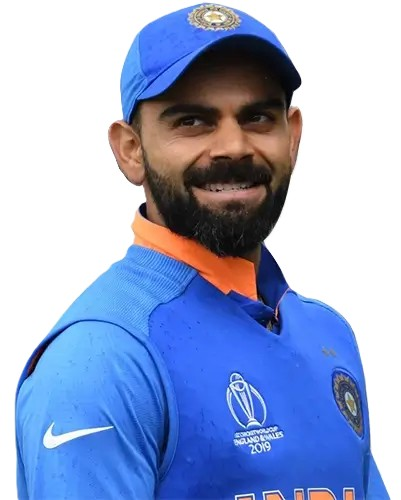
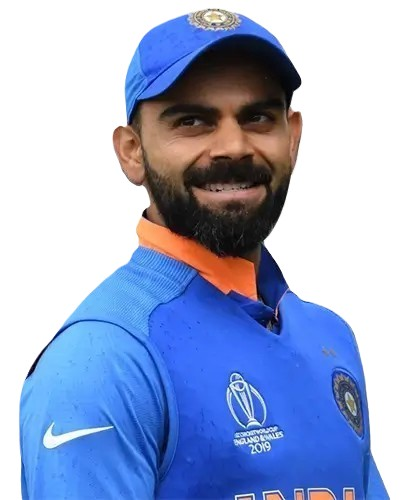
approach to finished

diff --git a/src/components/Player.jsx b/src/components/Player.jsx
@@ -1,12 +1,89 @@
-import React from "react";
+import React, { useState } from "react";
 import "./Player.css";
+import { UserRound } from "lucide-react";
 
-const Player = ({ player }) => {
-  const { name, img } = player;
+const Player = ({
+  player,
+  availableBalance,
+  setAvailableBalance,
+  selectedPlayers,
+  setSelectedPlayers,
+}) => {
+  const [isSelected, setIsSelected] = useState(false);
+  const {
+    name,
+    img,
+    country,
+    flag,
+    role,
+    rating,
+    bowling_style,
+    batting_style,
+    price,
+  } = player;
+
+  const handlePlayerPrice = (price) => {
+    if (availableBalance < price) {
+      alert("Do not have enough balance");
+      return;
+    }
+    setIsSelected(true);
+    setAvailableBalance(availableBalance - price);
+    setSelectedPlayers([...selectedPlayers, player]);
+  };
+
+  // we can also create a separate function
+  // ==========================================
+  // const handlePurchasedPlayers = (player) => {
+  //   const newHiredPlayers = [...selectedPlayers, player];
+  //   setSelectedPlayers(newHiredPlayers);
+  // };
+
   return (
     <div className="player-card">
-      <h3 className="text-2xl">{name}</h3>
-      <img src={img} alt="" />
+      <div className="flex justify-center">
+        <div className="image-container">
+          <img className="" src={img} alt="" />
+        </div>
+      </div>
+      <div className="flex gap-2 text-start mt-2">
+        <UserRound />
+        <h3 className="text-xl font-bold">{name}</h3>
+      </div>
+      <div className="flex gap-2 text-start items-center justify-between mt-3">
+        <div className="thumbnail-img flex gap-2 text-start items-center">
+          <img src={flag} alt="" />
+          <h3 className="text-xl text-gray-500">{country}</h3>
+        </div>
+        <div>
+          <span className="role">{role}</span>
+        </div>
+      </div>
+      <div className="mt-6">
+        <hr className="border border-gray-200"></hr>
+      </div>
+      <div className="mt-4">
+        <span>Rating: {rating}</span>
+      </div>
+      <div className=" flex justify-between mt-4">
+        <span className="font-bold">{batting_style}</span>
+        <span>{bowling_style}</span>
+      </div>
+      <div className=" flex justify-between items-center mt-4">
+        <span className="font-bold">Price: {price} m$</span>
+        <button
+          disabled={isSelected}
+          onClick={() => {
+            handlePlayerPrice(price);
+          }}
+          // can add multiple handler on onClick
+          // ====================================
+          // handlePurchasedPlayers(player)
+          className="btn bg-[#E7FE28] rounded-2xl"
+        >
+          {isSelected ? "Selected" : "Choose Player"}
+        </button>
+      </div>
     </div>
   );
 };

diff --git a/src/App.jsx b/src/App.jsx
@@ -1,30 +1,74 @@
-import { Suspense } from "react";
-import navLogo from "./assets/cricket-logo.png";
-import dollarSign from "./assets/dollar-sign.png";
-import Players from "./components/Players";
+import { Suspense, useState } from "react";
 
-const playersPromise = fetch("players.json").then((res) => res.json());
+import Players from "./components/Players";
+import Navbar from "./components/Navbar/Navbar";
+import SelectedPlayers from "./components/SelectedPlayers";
+
+const fetchPlayers = async () => {
+  const res = await fetch("players.json");
+  return res.json();
+};
+const playersPromise = fetchPlayers();
+// const playersPromise = fetch("players.json").then((res) => res.json());
 
 function App() {
+  const [toggle, setToggle] = useState(true);
+  const [availableBalance, setAvailableBalance] = useState(100);
+  const [selectedPlayers, setSelectedPlayers] = useState([]);
+  // const playersPromise = fetchPlayers();
+
+  const removeSelectedPlayer = (p) => {
+    // console.log(p);
+    const remainingSelectedPlayers = selectedPlayers.filter(
+      (ply) => ply.name !== p.name,
+    );
+    setSelectedPlayers(remainingSelectedPlayers);
+  };
+
   return (
     <>
       <div className="max-w-7xl mx-auto">
-        <div className="navbar">
-          <div className="flex-1">
-            <img src={navLogo} width="50px" alt="logo" />
+        <Navbar availableBalance={availableBalance}></Navbar>
+        <div className="flex justify-between font-bold mt-6">
+          <div>
+            {toggle === true ? (
+              <h3>Available Players</h3>
+            ) : (
+              <h3>Selected Players</h3>
+            )}
           </div>
-          <div className="flex gap-2">
-            <span>60000000</span>
-            <span>Coins</span>
-            <img src={dollarSign} width="25px" alt="" />
+          <div className="flex">
+            <button
+              onClick={() => setToggle(true)}
+              className={`py-3 px-4 border border-gray-400 rounded-l-2xl border-r-0 ${toggle === true ? "bg-[#E7FE28]" : ""}`}
+            >
+              Available
+            </button>
+            <button
+              onClick={() => setToggle(false)}
+              className={`py-3 px-4 border border-gray-400 rounded-r-2xl border-l-0 ${toggle === false ? "bg-[#E7FE28]" : ""}`}
+            >
+              Selected (<span>{selectedPlayers.length}</span>)
+            </button>
           </div>
         </div>
         <div>
-          {
+          {toggle === true ? (
             <Suspense fallback={<h3>Loading...</h3>}>
-              <Players playersPromise={playersPromise}></Players>
+              <Players
+                playersPromise={playersPromise}
+                setAvailableBalance={setAvailableBalance}
+                availableBalance={availableBalance}
+                selectedPlayers={selectedPlayers}
+                setSelectedPlayers={setSelectedPlayers}
+              ></Players>
             </Suspense>
-          }
+          ) : (
+            <SelectedPlayers
+              selectedPlayers={selectedPlayers}
+              removeSelectedPlayer={removeSelectedPlayer}
+            ></SelectedPlayers>
+          )}
         </div>
       </div>
     </>

diff --git a/src/components/SelectedCard.jsx b/src/components/SelectedCard.jsx
@@ -1,0 +1,31 @@
+import React from "react";
+import { RiDeleteBinLine } from "react-icons/ri";
+
+const SelectedCard = ({ player, removeSelectedPlayer }) => {
+  const handleRemoveSelectedPlayer = () => {
+    removeSelectedPlayer(player);
+  };
+  return (
+    <div className="flex justify-between mt-4 items-center border-2 border-gray-400 rounded-2xl p-4">
+      <div className="flex">
+        <div>
+          <img className="w-12 h-12 rounded-2xl" src={player.img} alt="" />
+        </div>
+        <div className="ml-4">
+          <h3 className="font-bold">{player.name}</h3>
+          <p>{player.role}</p>
+        </div>
+      </div>
+      <div>
+        <button
+          onClick={() => handleRemoveSelectedPlayer(player.id)}
+          className="btn btn-warning text-red-600 rounded-full"
+        >
+          <RiDeleteBinLine size="24px" />
+        </button>
+      </div>
+    </div>
+  );
+};
+
+export default SelectedCard;

diff --git a/src/components/Player.css b/src/components/Player.css
@@ -1,12 +1,35 @@
 .player-card {
-  border: 2px solid orange;
+  border: 1px solid rgb(238, 236, 236);
   margin: 10px;
   padding: 10px;
   border-radius: 10px;
-  justify-items: center;
+  /* justify-items: center; */
 }
 .player-card img {
   width: 200px;
   height: 250px;
-  background-color: white;
+}
+.image-container {
+  width: 350px;
+  margin-top: 10px;
+  justify-items: center;
+  justify-content: center;
+  border: 1px solid lightgrey;
+  border-radius: 10px;
+  background-color: lightgrey;
+}
+
+.thumbnail-img img {
+  width: 2.5rem;
+  height: 1.5rem;
+  /* object-fit: cover;
+  border-radius: 4px;*/
+  border: 1px solid orange;
+}
+
+.role {
+  background-color: rgb(227, 225, 225);
+  padding: 5px 10px;
+  color: grey;
+  border-radius: 10px;
 }

diff --git a/src/components/Players.jsx b/src/components/Players.jsx
@@ -1,16 +1,29 @@
 import React, { use } from "react";
 import Player from "./Player";
 
-const Players = ({ playersPromise }) => {
+const Players = ({
+  playersPromise,
+  availableBalance,
+  setAvailableBalance,
+  selectedPlayers,
+  setSelectedPlayers,
+}) => {
   const players = use(playersPromise);
   return (
     <div>
-      <div className="mt-7">
-        <h3>Total Players: {players.length}</h3>
+      <div className="font-bold mt-7">
+        {/* <h3>Total Players: {players.length}</h3> */}
       </div>
-      <div className="grid grid-cols-4">
+      <div className="grid grid-cols-3">
         {players.map((player) => (
-          <Player key={player.id} player={player}></Player>
+          <Player
+            key={player.id}
+            player={player}
+            setAvailableBalance={setAvailableBalance}
+            availableBalance={availableBalance}
+            selectedPlayers={selectedPlayers}
+            setSelectedPlayers={setSelectedPlayers}
+          ></Player>
         ))}
       </div>
     </div>

diff --git a/src/components/SelectedPlayers.jsx b/src/components/SelectedPlayers.jsx
@@ -1,0 +1,22 @@
+import React from "react";
+import "./Player.css";
+import SelectedCard from "./SelectedCard";
+
+const SelectedPlayers = ({ selectedPlayers, removeSelectedPlayer }) => {
+  return (
+    <div>
+      <h3>Selected Players: {selectedPlayers.length}</h3>
+      <div className="grid grid-cols-1">
+        {selectedPlayers.map((player) => (
+          <SelectedCard
+            player={player}
+            selectedPlayers={selectedPlayers}
+            removeSelectedPlayer={removeSelectedPlayer}
+          ></SelectedCard>
+        ))}
+      </div>
+    </div>
+  );
+};
+
+export default SelectedPlayers;

diff --git a/src/components/Navbar/Navbar.jsx b/src/components/Navbar/Navbar.jsx
@@ -1,0 +1,20 @@
+import React from "react";
+import navLogo from "../../assets/cricket-logo.png";
+import dollarSign from "../../assets/dollar-sign.png";
+
+const Navbar = ({ availableBalance }) => {
+  return (
+    <div className="navbar">
+      <div className="flex-1">
+        <img src={navLogo} width="50px" alt="logo" />
+      </div>
+      <div className="flex gap-2">
+        <span>{availableBalance.toFixed(2)}</span>
+        <span>Millions</span>
+        <img src={dollarSign} width="25px" alt="" />
+      </div>
+    </div>
+  );
+};
+
+export default Navbar;